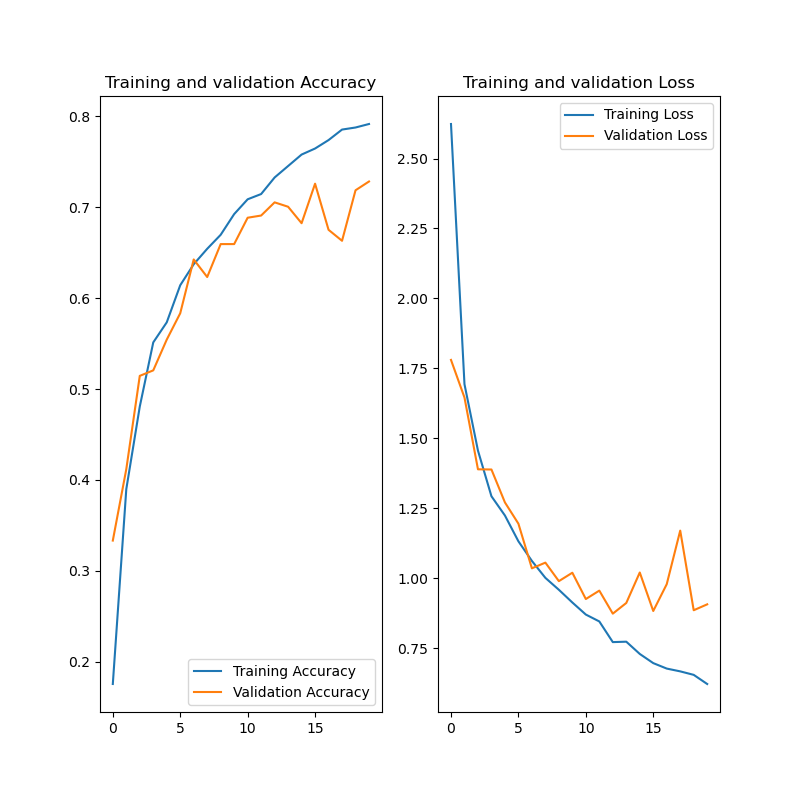
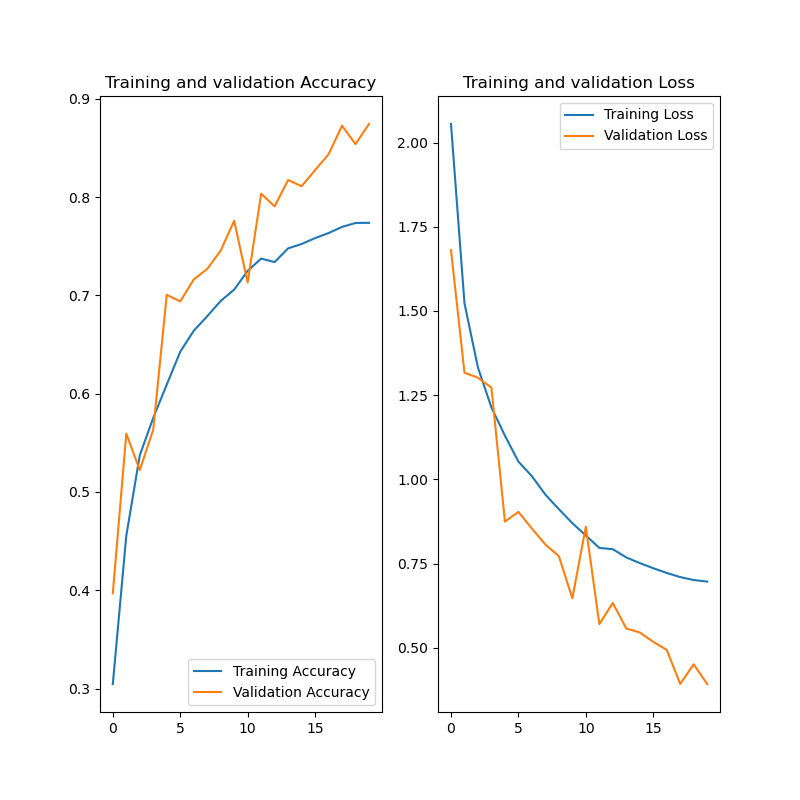
Add confidence and GUI

diff --git a/gui.py b/gui.py
@@ -1,0 +1,115 @@
+import os
+import numpy as np
+import tensorflow as tf
+from keras.preprocessing import image
+from PIL import Image
+from PyQt5 import QtWidgets, QtGui, QtCore
+from PyQt5.QtWidgets import QApplication, QLabel, QPushButton, QFileDialog, QVBoxLayout, QHBoxLayout, QWidget
+
+class FlowerPredictionApp(QWidget):
+    def __init__(self):
+        super().__init__()
+        self.initUI()
+        # Load the saved model
+        self.model = tf.keras.models.load_model('flowers.h5')
+        self.flower_categories = ['aster', 'daffodil', 'dahlia', 'daisy', 'dandelion', 'iris', 'orchid', 'rose', 'sunflower', 'tulip']
+        # Directory where test images are stored
+        self.test_dir = "./Test"
+
+    def initUI(self):
+        self.setWindowTitle('Flower Prediction')
+        self.setFixedSize(1280, 720)
+        
+        self.main_layout = QHBoxLayout()
+
+        # Left side layout (70%)
+        self.left_layout = QVBoxLayout()
+        
+        self.title_label = QLabel('Classification of Flowers', self)
+        self.title_label.setAlignment(QtCore.Qt.AlignCenter)
+        self.title_label.setFont(QtGui.QFont('Arial', 20))
+        self.left_layout.addWidget(self.title_label)
+        
+        self.image_container = QVBoxLayout()
+        self.image_container.setAlignment(QtCore.Qt.AlignCenter)
+        
+        self.image_label = QLabel(self)
+        self.image_label.setAlignment(QtCore.Qt.AlignCenter)
+        self.image_label.setSizePolicy(QtWidgets.QSizePolicy.Expanding, QtWidgets.QSizePolicy.Expanding)
+        self.image_container.addWidget(self.image_label)
+        
+        self.left_layout.addLayout(self.image_container)
+        self.left_layout.setStretch(0, 1)
+        self.left_layout.setStretch(1, 9)
+        self.main_layout.addLayout(self.left_layout, 7)
+        
+        # Right side layout (30%)
+        self.right_layout = QVBoxLayout()
+        
+        self.prediction_label = QLabel('Prediction: ', self)
+        self.right_layout.addWidget(self.prediction_label)
+        
+        self.random_test_button = QPushButton('Test Random Image', self)
+        self.random_test_button.clicked.connect(self.test_random_image)
+        self.right_layout.addWidget(self.random_test_button)
+        
+        self.upload_button = QPushButton('Upload Image', self)
+        self.upload_button.clicked.connect(self.upload_image)
+        self.right_layout.addWidget(self.upload_button)
+        
+        self.main_layout.addLayout(self.right_layout, 3)
+        
+        self.setLayout(self.main_layout)
+    
+    def prediction(self, test_image):
+        result = self.model.predict(test_image)
+        max_prob_index = np.argmax(result[0])
+        max_prob = result[0][max_prob_index]
+        if max_prob >= 0.40:
+            return self.flower_categories[max_prob_index]
+        else:
+            return "noprediction"
+
+    def load_and_predict(self, img_path):
+        test_image = Image.open(img_path)
+        test_image = test_image.resize((224, 224))  # Resize to match the model's input size
+        test_image = np.array(test_image)
+        test_image = test_image / 255.0  # Normalize the pixel values to be in the range [0, 1]
+        test_image = np.expand_dims(test_image, axis=0)
+        predicted_flower = self.prediction(test_image)
+        return predicted_flower
+
+    def test_random_image(self):
+        # List all files in the test directory
+        test_files = os.listdir(self.test_dir)
+        seed_value = np.random.randint(0, 100)
+        rng = np.random.default_rng(seed_value)
+        random_file_filename = rng.choice(test_files)
+        file_dir = os.path.join(self.test_dir, random_file_filename)
+        test_img_files = os.listdir(file_dir)
+        random_img_filename = rng.choice(test_img_files)
+        img_dir = os.path.join(file_dir, random_img_filename)
+        predicted_flower = self.load_and_predict(img_dir)
+        self.display_image(img_dir)
+        self.prediction_label.setText(f'Prediction: {predicted_flower}\nFile: {img_dir}')
+
+    def upload_image(self):
+        options = QFileDialog.Options()
+        filename, _ = QFileDialog.getOpenFileName(self, "QFileDialog.getOpenFileName()", "", "Images (*.png *.xpm *.jpg *.jpeg)", options=options)
+        if filename:
+            predicted_flower = self.load_and_predict(filename)
+            self.display_image(filename)
+            self.prediction_label.setText(f'Prediction: {predicted_flower}')
+    
+    def display_image(self, img_path):
+        pixmap = QtGui.QPixmap(img_path)
+        scaled_pixmap = pixmap.scaled(self.image_label.size(), QtCore.Qt.KeepAspectRatioByExpanding, QtCore.Qt.SmoothTransformation)
+        self.image_label.setPixmap(scaled_pixmap)
+        self.image_label.setAlignment(QtCore.Qt.AlignCenter)
+
+if __name__ == '__main__':
+    import sys
+    app = QApplication(sys.argv)
+    ex = FlowerPredictionApp()
+    ex.show()
+    sys.exit(app.exec_())

diff --git a/test.py b/test.py
@@ -1,45 +1,52 @@
 import os
 import numpy as np
 import tensorflow as tf
-from keras.preprocessing import image
 from PIL import Image
 
 def prediction(model, test_image):
     result = model.predict(test_image)
     flower_categories = ['aster', 'daffodil', 'dahlia', 'daisy', 'dandelion', 'iris', 'orchid', 'rose', 'sunflower', 'tulip']
-    for i in range(len(result[0])):
-        if result[0][i] >= 0.42:
-            return flower_categories[i]
-    return "noprediction"
+    max_prob_index = np.argmax(result[0])
+    max_prob = result[0][max_prob_index]
+    if max_prob >= 0.40:
+        return flower_categories[max_prob_index]
+    else:
+        return "noprediction"
+
 # Load the saved model
 model = tf.keras.models.load_model('flowers.h5')
 
-# Directory where test images are stored
-test_dir = "./Test"
+validate_dir = "./Validate"
+total_images = 0
+correct_predictions = 0
+flower_categories = os.listdir(validate_dir)
 
-# List all files in the test directory
-test_files = os.listdir(test_dir)
+for category in flower_categories:
+    category_path = os.path.join(validate_dir, category)
+    if os.path.isdir(category_path):
+        # List all image files in the category directory
+        image_files = os.listdir(category_path)
+        
+        for image_file in image_files:
+            image_path = os.path.join(category_path, image_file)
+            # Load and preprocess the image
+            test_image = Image.open(image_path)
+            test_image = test_image.resize((224, 224))  # Resize to match the model's input size
+            test_image = np.array(test_image)
+            test_image = test_image / 255.0  # Normalize the pixel values to be in the range [0, 1]
+            test_image = np.expand_dims(test_image, axis=0)
+            # Make prediction
+            predicted_flower = prediction(model, test_image)
+            # Increment the total image counter
+            total_images += 1
+            # Check if the prediction is correct
+            if predicted_flower == category:
+                correct_predictions += 1
 
-# Set a seed for reproducibility
-seed_value = np.random.randint(0, 100)
-rng = np.random.default_rng(seed_value)
-
-random_file_filename = rng.choice(test_files)
-file_dir = os.path.join(test_dir, random_file_filename)
-
-test_img_files = os.listdir(file_dir)
-random_img_filename = rng.choice(test_img_files)
-img_dir = os.path.join(file_dir, random_img_filename)
-
-test_image = Image.open(img_dir)
-test_image = test_image.resize((224, 224))  # Resize to match the model's input size
-test_image = np.array(test_image)
-test_image = test_image / 255.0  # Normalize the pixel values to be in the range [0, 1]
-
-test_image = np.expand_dims(test_image, axis=0)
-
-# Make prediction using the defined function
-predicted_flower = prediction(model, test_image)
-
-# Print the prediction result
-print(f"The flower in the image '{img_dir}' is predicted to be a {predicted_flower}.")
+# Calculate the accuracy as a percentage
+accuracy = (correct_predictions / total_images) * 100
+# Print the result
+print(f"The model's accuracy on the validation set is {accuracy:.2f}%")
+# Print the number of correct and incorrect predictions
+print(f"Correct predictions: {correct_predictions}/{total_images}")
+print(f"Incorrect predictions: {total_images - correct_predictions}/{total_images}")

diff --git a/distribution.py b/distribution.py
@@ -28,37 +28,34 @@ os.makedirs(TRAIN_DIR, exist_ok=True)
 os.makedirs(TEST_DIR, exist_ok=True)
 os.makedirs(VAL_DIR, exist_ok=True)
 
-# Porcentaje de datos para entrenamiento, prueba y validación
-train_percent = 0.7
-test_percent = 0.2
-val_percent = 0.1
-
 # Iterar sobre cada tipo de flor y mover imágenes a los directorios correspondientes
 for flower_type in flower_types:
     # Obtener la lista de archivos en el directorio actual
     files = os.listdir(os.path.join(flowers_dir, flower_type))
     random.shuffle(files)  # Mezclar aleatoriamente los archivos
 
-    # Calcular los índices para los conjuntos de entrenamiento, prueba y validación
+    # Calcular el número de archivos para el conjunto de prueba (20%)
     num_files = len(files)
-    num_train = int(train_percent * num_files)
-    num_test = int(test_percent * num_files)
-    num_val = num_files - num_train - num_test
+    num_test = int(0.2 * num_files)
 
     # Crear las carpetas correspondientes para cada tipo de flor en TRAIN_DIR, TEST_DIR y VAL_DIR
     os.makedirs(os.path.join(TRAIN_DIR, flower_type), exist_ok=True)
     os.makedirs(os.path.join(TEST_DIR, flower_type), exist_ok=True)
     os.makedirs(os.path.join(VAL_DIR, flower_type), exist_ok=True)
 
-    # Mover los archivos a los directorios correspondientes
+    # Mover/copiar los archivos a los directorios correspondientes
     for i, file in enumerate(files):
         src = os.path.join(flowers_dir, flower_type, file)
-        if i < num_train:
-            dst = os.path.join(TRAIN_DIR, flower_type, file)
-        elif i < num_train + num_test:
-            dst = os.path.join(TEST_DIR, flower_type, file)
-        else:
-            dst = os.path.join(VAL_DIR, flower_type, file)
-        shutil.move(src, dst)
+        
+        # Copiar todas las imágenes a Train y Validate
+        dst_train = os.path.join(TRAIN_DIR, flower_type, file)
+        dst_val = os.path.join(VAL_DIR, flower_type, file)
+        shutil.copy2(src, dst_train)
+        shutil.copy2(src, dst_val)
 
-print("Proceso completado. Archivos movidos a los directorios TRAIN_DIR, TEST_DIR y VAL_DIR.")
+        # Mover el 20% de las imágenes a Test
+        if i < num_test:
+            dst_test = os.path.join(TEST_DIR, flower_type, file)
+            shutil.copy2(src, dst_test)
+
+print("Proceso completado. Archivos copiados a los directorios TRAIN_DIR, TEST_DIR y VAL_DIR.")

diff --git a/README.md b/README.md
@@ -100,9 +100,17 @@ The linear graphs show the progression of both accuracy and loss metrics during 
 
 ### Testing Your Trained Model
 
-To test the trained model, execute `test.py`. This script will randomly select an image from the test folder and display the model's prediction alongside the actual result. The results will be stored in a folder along with the generated image.
+To test the trained model, execute `gui.py`. This script will randomly select an image from the test folder or you can select your own file and display the model's prediction alongside the actual result. The results you can view in the GUI with QT.
 
-![Example Test Result](.Captures/test_1.png)
+![Example Test Result](.Captures/gui_view.png)
+
+### Testing Confidence
+
+You can test the model using `test.py`, which executes tests and validates the number of correct and incorrect predictions. This allows us to assess the confidence of the trained model.
+
+The model achieved an accuracy of 85.01%, correctly predicting 6944 out of 8168 test samples, with 1224 incorrect predictions.
+
+![Confidence Result](.Captures/test_1.png)
 
 ## License:
 
